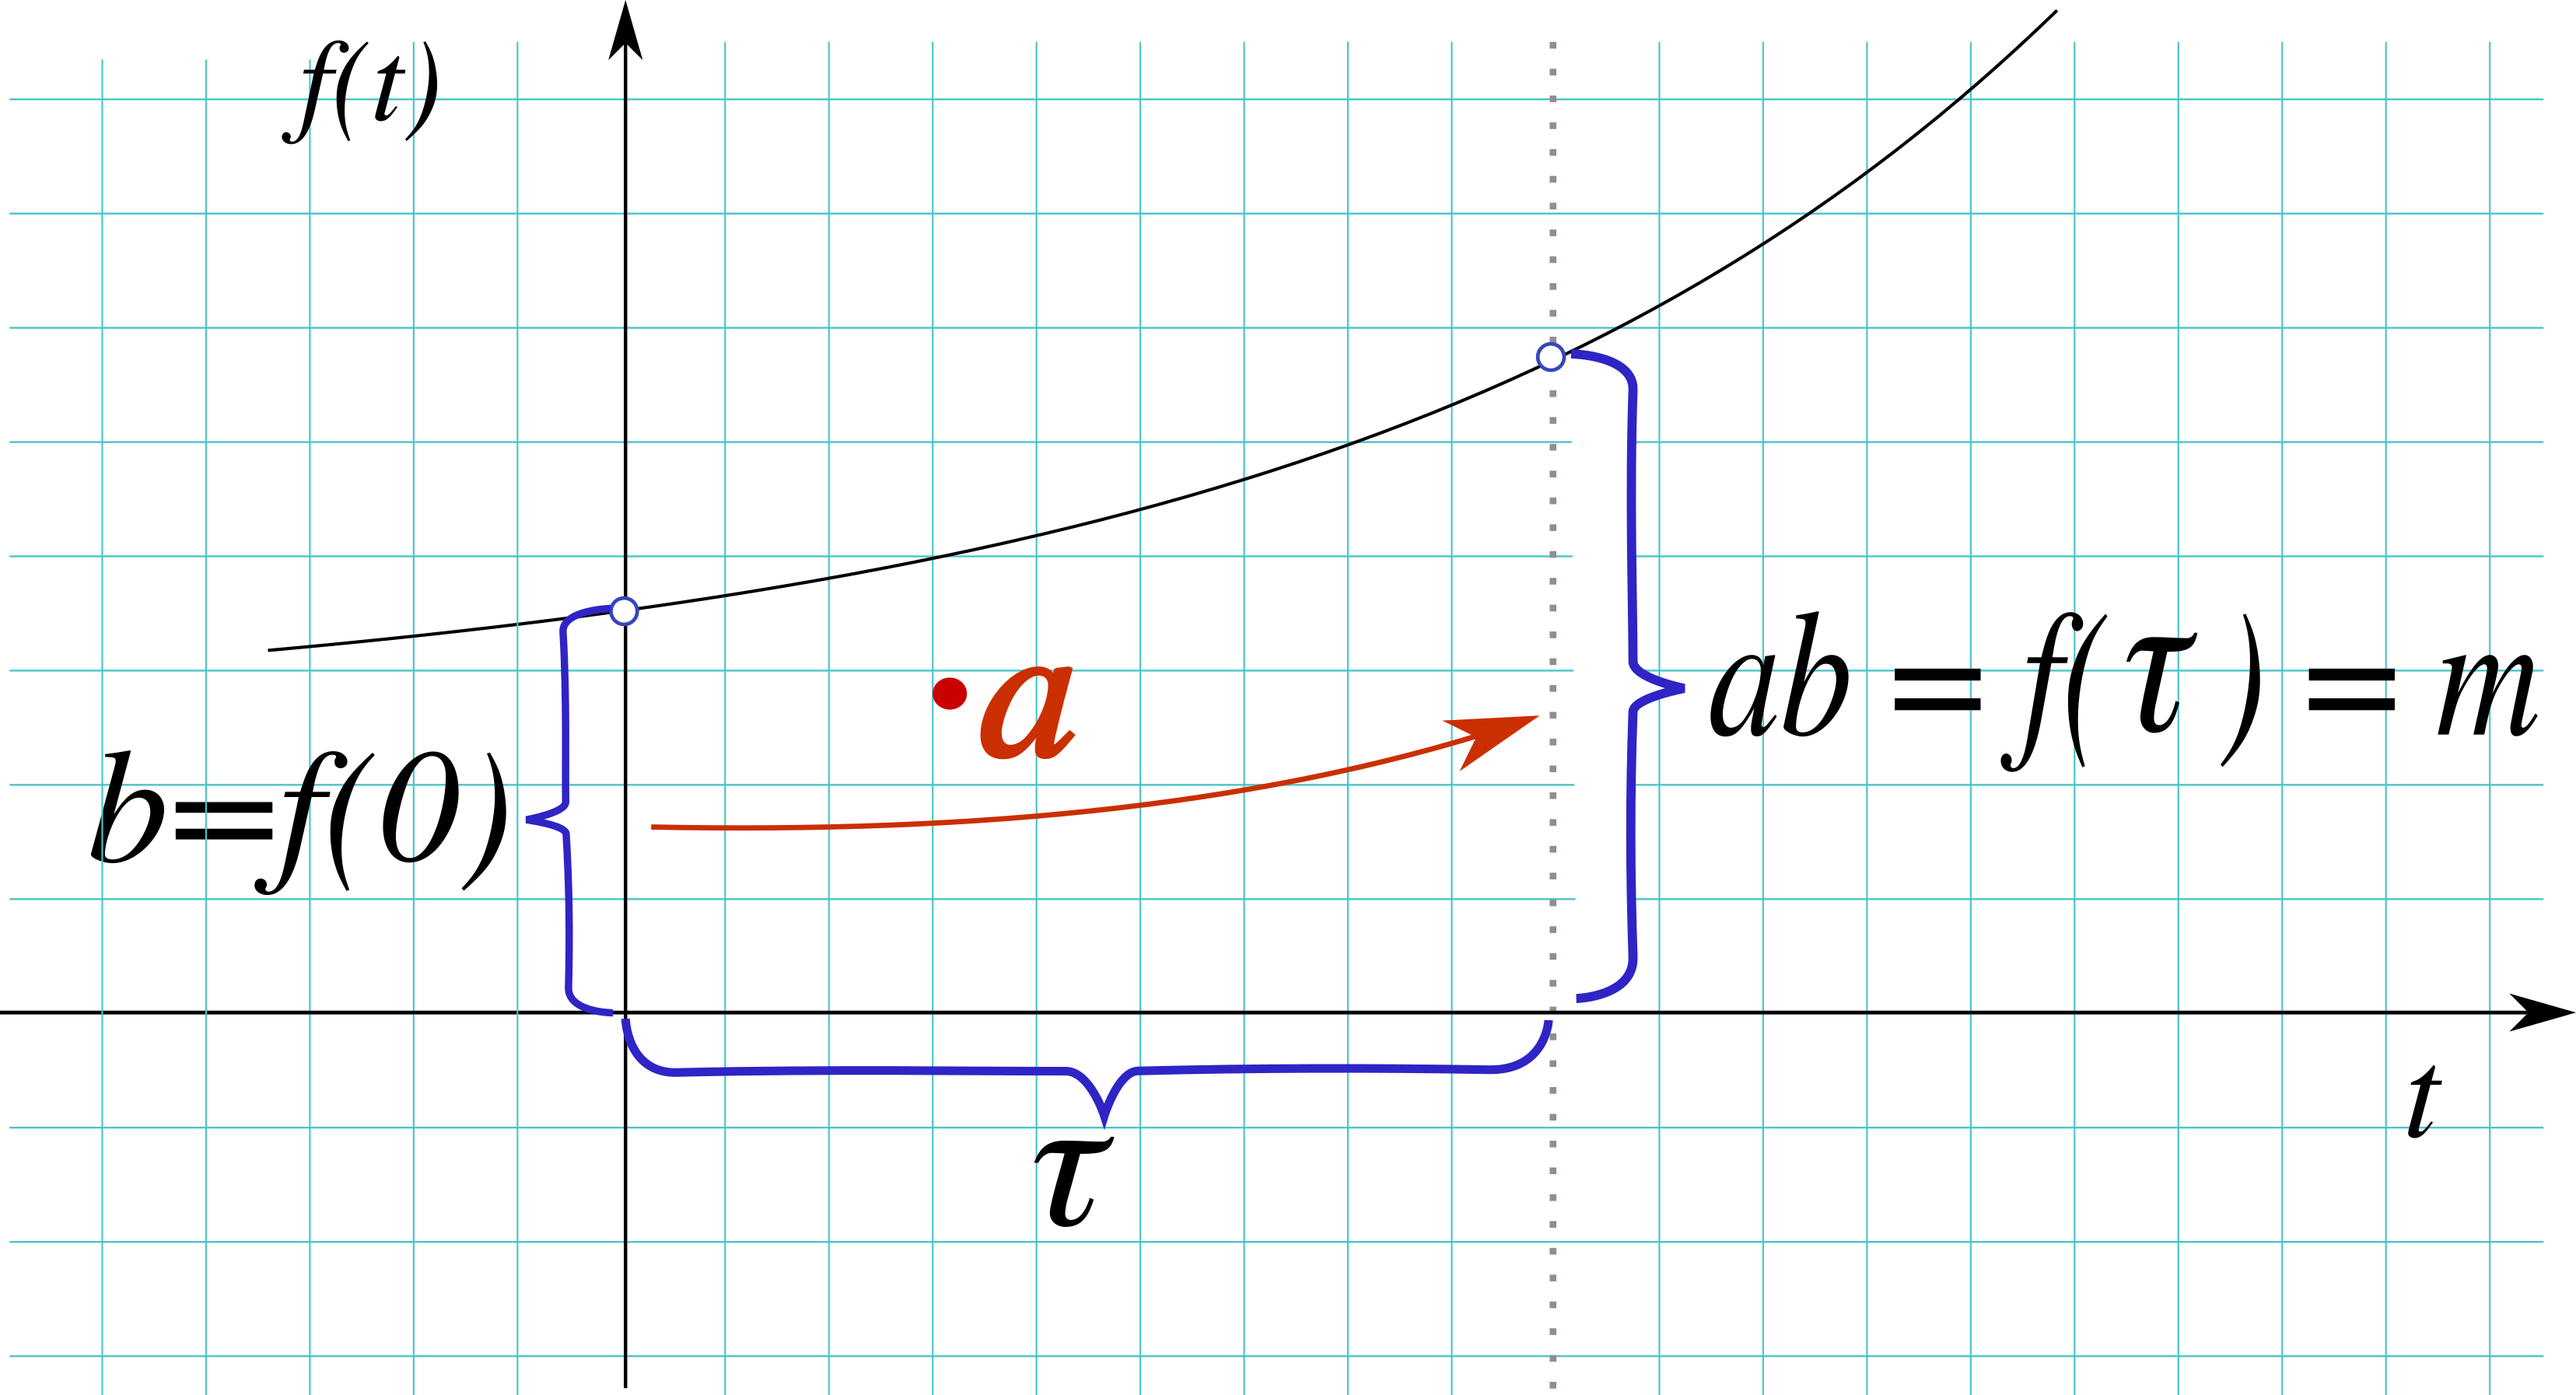
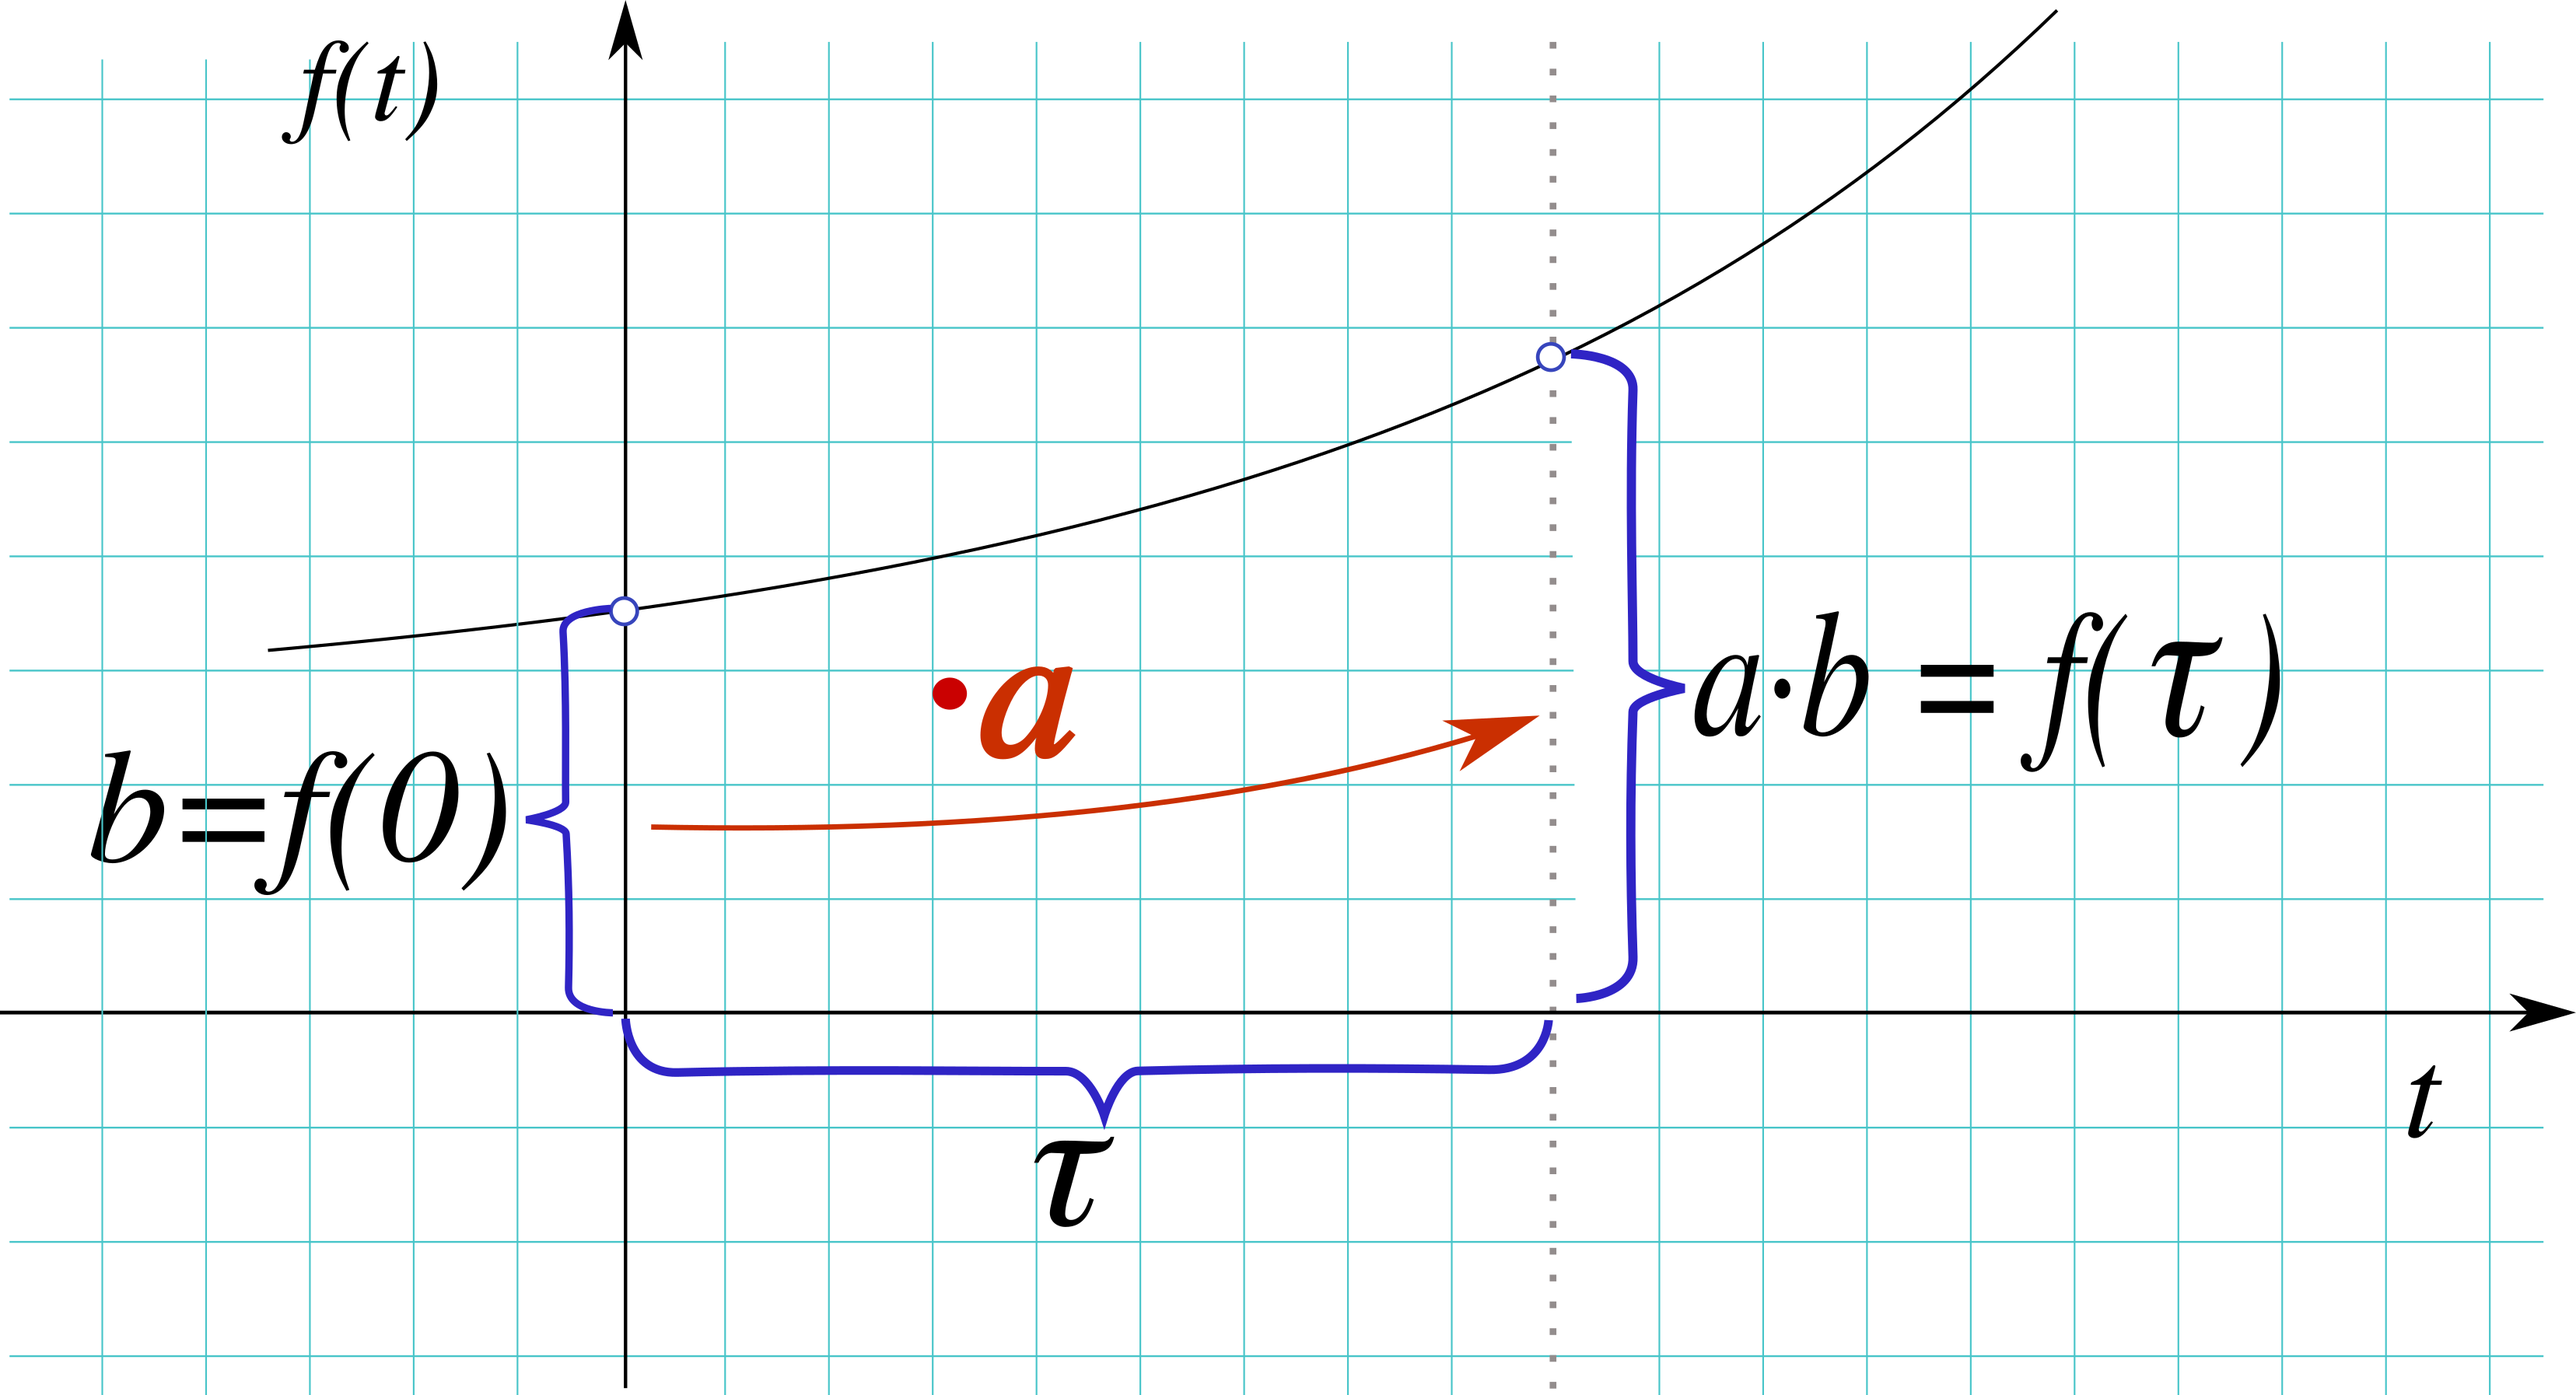
Zusammenfassungen bei Exponentiellen Prozessen.

Changed region(s): [[0.6531, 0.437, 0.9952, 0.5619], [0.0622, 0.5619, 0.1244, 0.6243]]

diff --git a/includes/thema/allg/funktionen/Wachstums_und_Zerfallsprozesse.tex b/includes/thema/allg/funktionen/Wachstums_und_Zerfallsprozesse.tex
@@ -110,7 +110,7 @@ Dabei sind
 
 Bemerkung: 
 \TNT{2.4}{
-$\frac{m}b=\frac{f(t)}{f(0)}=\frac{b\cdot{}a^{\frac{t}{\tau}}}{b\cdot{}a^{\frac0{\tau}}}
+$\frac{f(\tau)}{f(0)}=\frac{b\cdot{}a^{\frac{t}{\tau}}}{b\cdot{}a^{\frac0{\tau}}}
   = a^{\frac{t}{\tau} -\frac{0}{\tau}} = a^{\frac{t-0}{\tau}}
   = a^{\frac{\tau}{\tau}} = a$}%% END TNT
 
@@ -319,7 +319,7 @@ Zeichnen Sie die Funktionen $f: y=2^x$, $g: y=2^{-x}$ und $h: y=\left(\frac12\ri
   \TRAINER{\bbwLetter{1.5,4}{2^x}{blue}}
   \TRAINER{\bbwLetter{-3,4}{2^{-x}=\left(\frac{1}{2}\right)^x}{red}}
 }
-
+\newpage
 Die allgemeine Formel für Zerfallsprozesse lautet:
 
 \begin{definition}{Zerfall}{}
@@ -332,7 +332,7 @@ Dabei sind
 \begin{itemize}
 \item $c$ der Anfangsbestand zum Zeitpunkt $t$ = 0.
 \item $\tau$ ist die Zeitspanne zwischen zwei typischen Beobachtungszeitpunkten (Zum Beispiel zwischen Wert und dessen Halbierung).
-\item $a=\frac{m}{b}=\frac{f(\tau)}{f(0)}$ ist der Abnahmefaktor ($0<a<1$) zwischen zwei Beobachtungszeitpunkten (im Abstand von $\tau$). Bei Halbierungsprozessen \zB wäre $a=0.5$.
+\item $a=\frac{f(\tau)}{f(0)}$ ist der Abnahmefaktor ($0<a<1$) zwischen zwei Beobachtungszeitpunkten (im Abstand von $\tau$). Bei Halbierungsprozessen \zB wäre $a=0.5$.
 \end{itemize}
 
 \begin{bemerkung}{Wachstum vs. Zerfall}{}
@@ -346,9 +346,13 @@ Dabei sind
     \end{itemize}
   
   \end{bemerkung}
+\newpage
 
-\subsubsection{Umkehrung}
-Anstelle eines  positiven Exponenten ($\frac{+t}{\tau}$) kann genauso gut der Kehrwert des Faktors $a$ genommen werden. Dann wird der Exponent negativ, dafür wird die Basis $> 1$.
+\subsubsection{Umkehrung (Optional)}
+Anstelle eines  positiven Exponenten ($\frac{+t}{\tau}$) kann genauso
+gut der Kehrwert des Faktors $a$ genommen werden. Dann wird der
+Exponent negativ, dafür wird die Basis $> 1$. Seien $m_1$ bzw. $m_2$
+zwei Beobachtungswerte.
 
 Mit $a = \frac{m_2}{m_1}$ und $d := \frac{m_1}{m_2} = \frac{1}{a}$, gilt
 

diff --git a/includes/thema/allg/funktionen/Saettigungsprozesse.tex b/includes/thema/allg/funktionen/Saettigungsprozesse.tex
@@ -295,3 +295,15 @@ Und so ist er nach 17 Minuten so richtig satt.}
   Kompendium verwendet andere Buchstaben als hier im Skript und im
   Buch \cite{marthaler17})}}
 \newpage
+
+\subsection{Zusammenfassung der Prozesse}
+\vspace{10mm}
+\begin{center}\textbf{Wachstum und Zerfall}\end{center}
+
+\bbwCenterGraphic{18cm}{allg/funktionen/img/zusammenfassung_exp/wachstum_zerfall.png}
+
+\vspace{10mm}
+\begin{center}\textbf{Sättigung}\end{center}
+
+\bbwCenterGraphic{18cm}{allg/funktionen/img/zusammenfassung_exp/saettigung.png}
+
